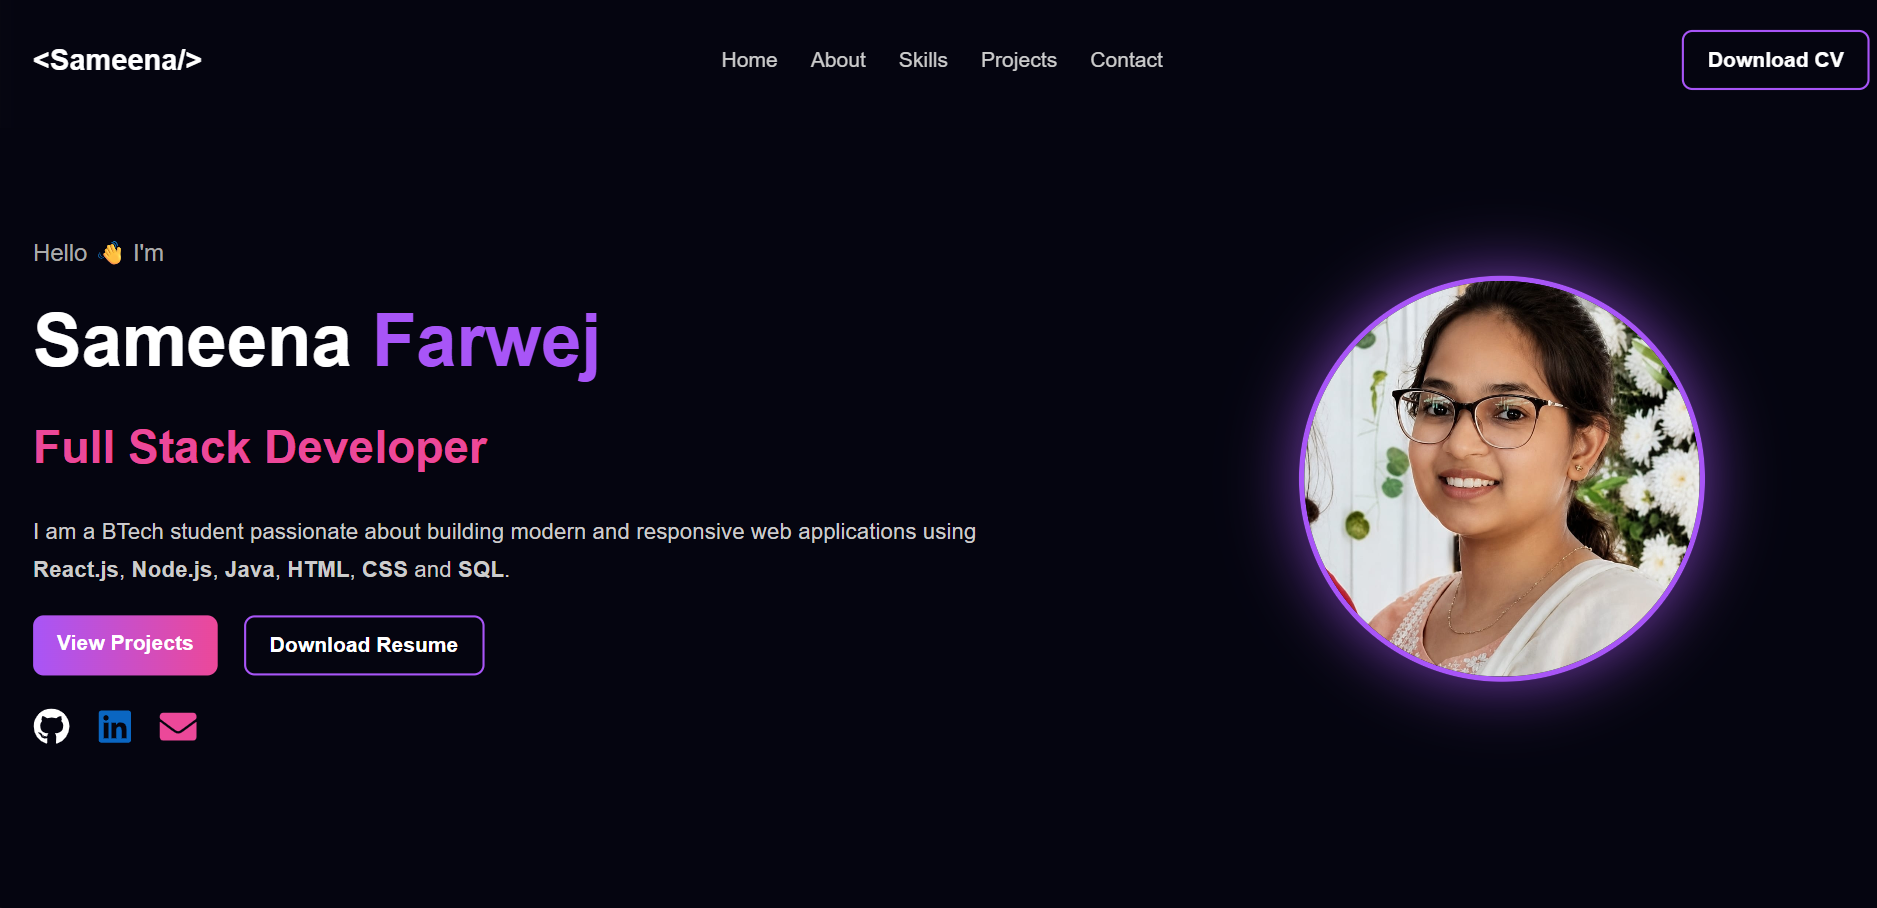
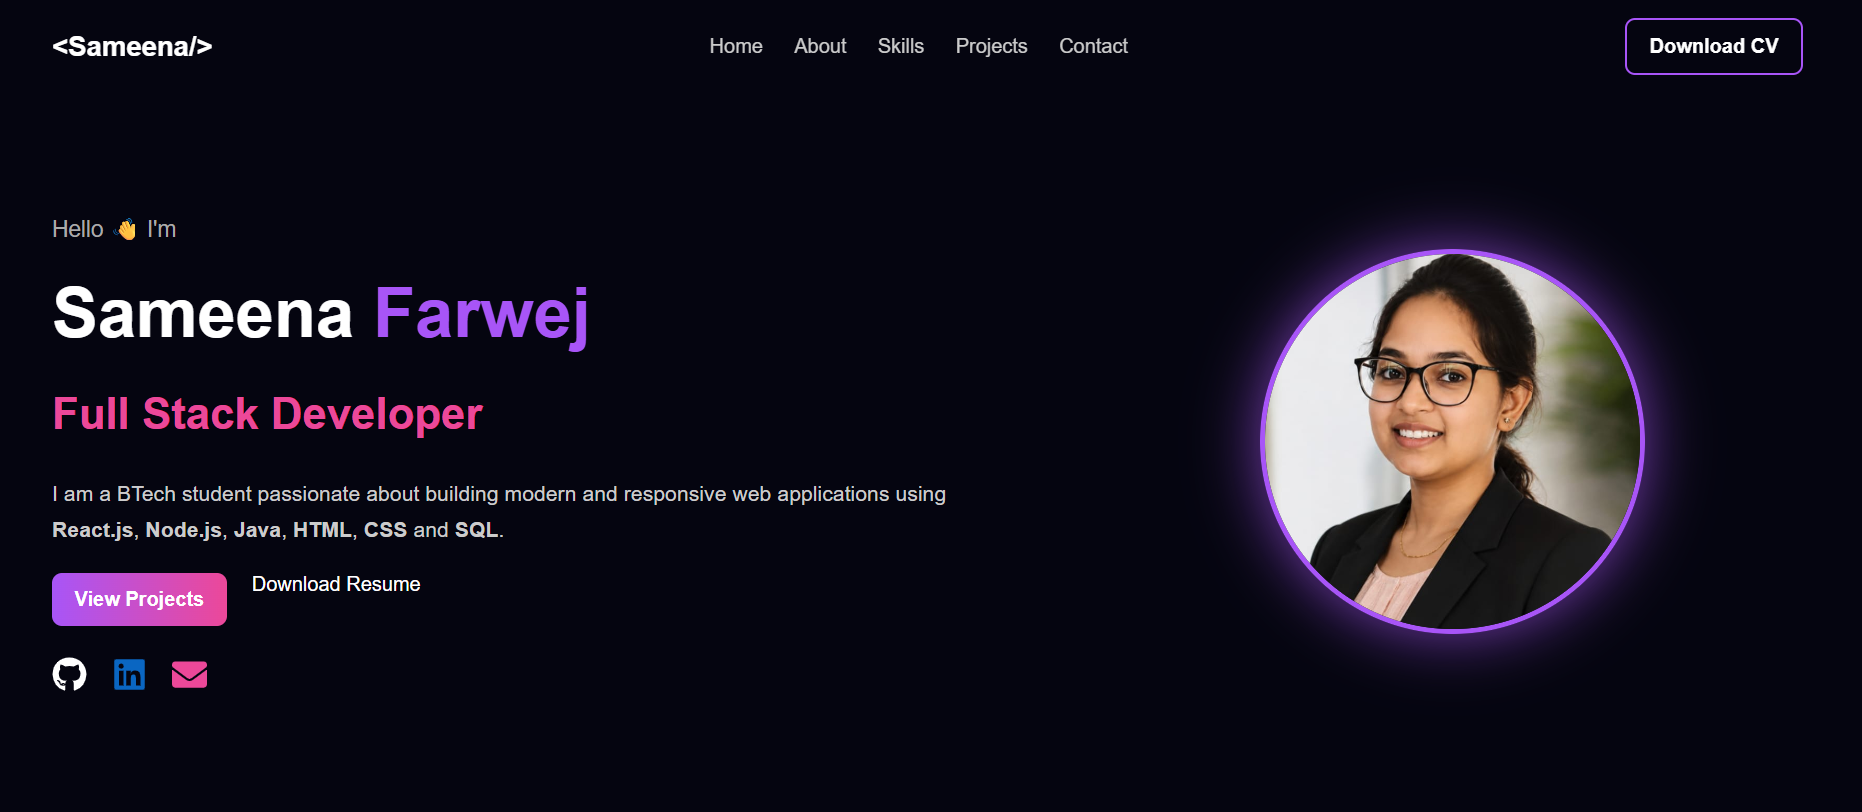
Commited after changed photo

diff --git a/src/components/Projects.js b/src/components/Projects.js
@@ -1,27 +1,68 @@
 import React from "react";
 import projectp1 from "../assets/projectp1.png";
+import projectp2 from "../assets/projectp2.png";
 
 export default function Projects() {
   return (
     <div className="section" id="projects">
-      <h2 className="section-title">My Project</h2>
+      <h2 className="section-title">My Projects</h2>
 
       <div className="projects-grid">
+        {/* Project 1 */}
         <div className="project-box">
-          <img src={projectp1} alt="project" />
+          <img src={projectp1} alt="Portfolio Website" />
 
           <h3>Portfolio Website</h3>
           <p>
-            A modern portfolio website built using React with dark theme UI and
-            responsive design.
+            A modern portfolio website built using React with a dark theme UI
+            and responsive design to showcase my skills, projects, and contact
+            information.
           </p>
 
           <div className="project-links">
-            <a href="#" target="_blank" rel="noreferrer">
+            <a
+              href="https://sameena0405.github.io/engineering-portfolio/"
+              target="_blank"
+              rel="noreferrer"
+            >
               Live Demo
             </a>
 
-            <a href="#" target="_blank" rel="noreferrer">
+            <a
+              href="https://github.com/sameena0405/engineering-portfolio"
+              target="_blank"
+              rel="noreferrer"
+            >
+              GitHub
+            </a>
+          </div>
+        </div>
+
+        {/* Project 2 */}
+        <div className="project-box">
+          <img src={projectp2} alt="EcomHub" />
+
+          <h3>EcomHub - E-Commerce Website</h3>
+          <p>
+            A responsive e-commerce web application developed using React,
+            featuring product browsing, category filtering, shopping cart, and a
+            modern user-friendly interface.
+          </p>
+
+          <div className="project-links">
+            <a
+              href="https://sameena0405.github.io/ecomhub-frontend/"
+              target="_blank"
+              rel="noreferrer"
+            >
+              Live Demo
+            </a>
+
+            <a
+              href="https://github.com/sameena0405/ecomhub-frontend"
+              target="_blank"
+              rel="noreferrer"
+            >
               GitHub
             </a>
           </div>

diff --git a/src/components/Skills.js b/src/components/Skills.js
@@ -8,10 +8,11 @@ export default function Skills() {
       <div className="skills-grid">
         <div className="skill-box">HTML</div>
         <div className="skill-box">CSS</div>
-        <div className="skill-box">JavaScript</div>
+        <div className="skill-box">Spring Boot</div>
         <div className="skill-box">React</div>
 
         <div className="skill-box">Node.js</div>
+        <div className="skill-box">JavaScript</div>
         <div className="skill-box">Java</div>
         <div className="skill-box">MySQL</div>
 
